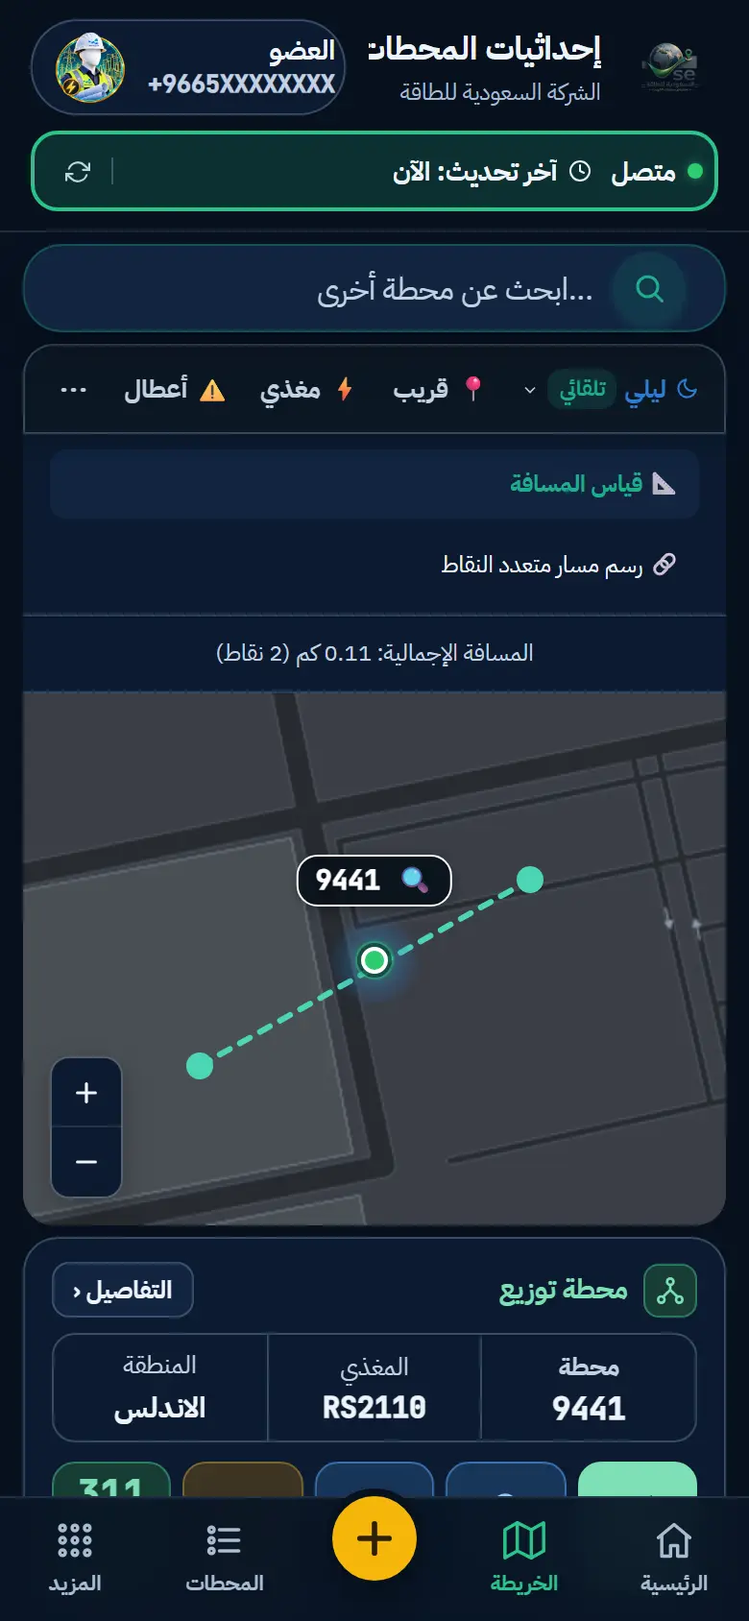
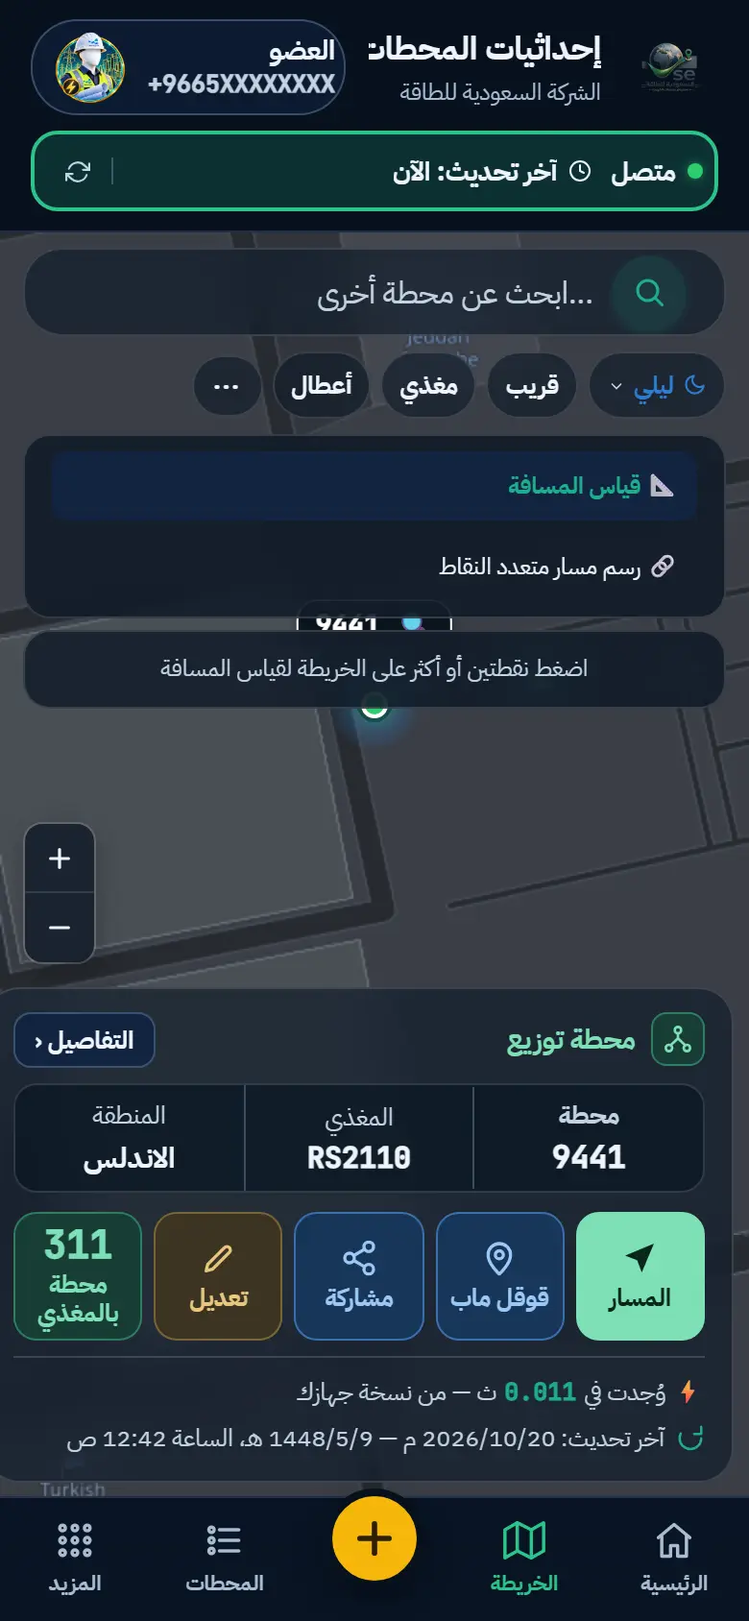
إعادة التصميم — الخريطة بكامل الصفحة: بحث وأدوات عائمة وبطاقة زجاجية، والمحطة في منتصف المساحة المرئية
- الخريطة تملأ المساحة بين الرأس والشريط السفلي؛ البحث زجاجي شبه شفاف أعلاها، وأدواتها أزرار عائمة تحته
- بطاقة المحطة عائمة أسفلها بخلفية زجاجية وأزرار واضحة («المسار» مميز)، بحد 56٪ والباقي يتمرر داخلها
- التوسيط في المساحة المرئية بين ما يطفو أعلى الخريطة والبطاقة (map-view: setInsets/centerOn/fitPadding)،
  ويُطبَّق على المحطة والقريبة والمغذي ونقاط الأعطال؛ التكبير والتنبيه فوق البطاقة دائمًا
- الملاحة بكامل الشاشة كما هي، وبعد إنهائها يعود البحث والبطاقة
- إعادة التقاط شرائح الجولة

diff --git a/styles/home.css b/styles/home.css
@@ -256,3 +256,55 @@ body.guest-mode .app-views{display:none;}
 /* سطر رسائل البحث لا يحجز مساحة وهو فارغ (كان 22 نقطة فوق الخريطة)، ويظهر بنصه عند وجود رسالة
    The search message line takes no space while empty (it was 22px above the map), and shows when there is a message */
 .view-map .station-search-hint:empty{min-height:0;padding:0;}
+
+/* ===== الخريطة بكامل الصفحة (طلب محمد 20 أكتوبر) =====
+   الخريطة تملأ المساحة بين الرأس والشريط السفلي؛ فوقها حقل بحث زجاجي شبه شفاف وأدوات الخريطة كأزرار عائمة، وأسفلها بطاقة
+   المحطة بخلفية زجاجية شبه شفافة وأزرار واضحة. التوسيط في المساحة المرئية بينهما (pages/home.js layout + map-view insets).
+   أثناء الملاحة تبقى قواعد navigation.css كما هي (كلها هنا مقيّدة بـ body:not(.nav-full)).
+   The full-page map: the map fills the space between the header and the bottom bar; a translucent glass search and the map
+   tools float above it, the station card floats below on translucent glass. Navigation keeps its own rules. */
+:root{--glass-bg:rgba(13,24,38,0.62);--glass-strong:rgba(13,24,38,0.80);--glass-line:rgba(255,255,255,0.14);}
+[data-theme="light"]{--glass-bg:rgba(255,255,255,0.66);--glass-strong:rgba(255,255,255,0.84);--glass-line:rgba(20,40,60,0.16);}
+body.home-page[data-view="map"]{min-height:0;}
+body:not(.nav-full) .view-map.hero{position:fixed;top:var(--header-h, 120px);left:0;right:0;
+  bottom:calc(var(--tabbar-h) + env(safe-area-inset-bottom, 0px));padding:0;overflow:hidden;z-index:1;}
+/* البحث عائم أعلى الخريطة — the search floats at the top */
+body:not(.nav-full) .view-map .top-content-area{position:absolute;top:8px;left:12px;right:12px;width:auto;max-width:none;margin:0;z-index:20;}
+body:not(.nav-full) .view-map .station-search-bar{background:var(--glass-bg);border-color:var(--glass-line);box-shadow:none;
+  -webkit-backdrop-filter:blur(14px) saturate(1.2);backdrop-filter:blur(14px) saturate(1.2);}
+body:not(.nav-full) .view-map .station-search-bar input{font-family:'JetBrains Mono','IBM Plex Sans Arabic',monospace;font-weight:700;color:var(--text-primary);}
+/* المسرح بكامل المساحة: الخريطة خلفية، والأدوات واللوحات تتراص تحت البحث فوقها — the stage fills the area: the map behind, tools stacked above it */
+body:not(.nav-full) .view-map .map-stage-slot{position:absolute;inset:0;margin:0;width:auto;padding:0;}
+body:not(.nav-full) .view-map .map-stage-slot .globe-stage.map-active{position:absolute;inset:0;width:100%;height:100%;min-height:0;margin:0;
+  padding:calc(var(--search-h, 46px) + 16px) 12px 0;box-sizing:border-box;gap:6px;pointer-events:none;}
+body:not(.nav-full) .view-map .globe-stage.map-active > *{pointer-events:auto;}
+body:not(.nav-full) .view-map .globe-stage.map-active #map-container{position:absolute;inset:0;height:100% !important;border-radius:0;z-index:0;}
+body:not(.nav-full) .view-map .map-toolbar-bar,body:not(.nav-full) .view-map .map-mode-panel,body:not(.nav-full) .view-map .map-panels > *,
+body:not(.nav-full) .view-map .map-tool-hint{position:relative;z-index:10;}
+/* أدوات الخريطة أزرار زجاجية منفصلة — the map tools as separate glass pills */
+body:not(.nav-full) .view-map .map-toolbar-bar{background:none;border:none;border-radius:0;box-shadow:none;-webkit-backdrop-filter:none;backdrop-filter:none;overflow:visible;}
+body:not(.nav-full) .view-map .toolbar-scroll{height:auto;padding:0 0 2px;gap:6px;justify-content:flex-start;}
+body:not(.nav-full) .view-map .toolbar-btn,body:not(.nav-full) .view-map .map-mode-chip{padding:8px 11px;border-radius:999px;font-size:13px;
+  background:var(--glass-bg);border:1px solid var(--glass-line);color:var(--text-primary);-webkit-backdrop-filter:blur(12px);backdrop-filter:blur(12px);}
+body:not(.nav-full) .view-map .toolbar-btn.active{background:var(--teal);border-color:var(--teal);color:#04241c;}
+body:not(.nav-full) .view-map [data-tools="more"]{padding:8px 11px;}
+/* لوحات الأدوات والتلميح بطاقات زجاجية تحت الأزرار — the tool panels and the hint as glass cards under the pills */
+body:not(.nav-full) .view-map .map-mode-panel,body:not(.nav-full) .view-map .map-panels > *,body:not(.nav-full) .view-map .map-tool-hint{
+  border:1px solid var(--glass-line);border-radius:14px;background:var(--glass-strong);-webkit-backdrop-filter:blur(14px);backdrop-filter:blur(14px);}
+/* التكبير والتنبيه فوق البطاقة دائمًا — zoom and the toast always above the card */
+body:not(.nav-full) .view-map .zoom-controls{bottom:calc(var(--sheet-h, 0px) + 12px);left:12px;border-color:var(--glass-line);}
+body:not(.nav-full) .view-map .zoom-btn{background:var(--glass-strong);-webkit-backdrop-filter:blur(12px);backdrop-filter:blur(12px);}
+body:not(.nav-full) .view-map .map-toast{bottom:calc(var(--sheet-h, 0px) + 16px);}
+/* بطاقة المحطة عائمة أسفل الخريطة بخلفية زجاجية — the station card floats at the bottom on glass */
+body:not(.nav-full) .view-map .station-sheet{position:absolute;left:8px;right:8px;bottom:8px;margin:0;z-index:20;max-height:56%;overflow-y:auto;overscroll-behavior:contain;
+  background:var(--glass-bg);border:1px solid var(--glass-line);-webkit-backdrop-filter:blur(16px) saturate(1.25);backdrop-filter:blur(16px) saturate(1.25);}
+body:not(.nav-full) .view-map .station-sheet .sheet-meta{background:var(--glass-strong);border-color:var(--glass-line);}
+body:not(.nav-full) .view-map .station-sheet .sheet-foot{border-top-color:var(--glass-line);}
+/* الأدوات الخمس في سطر واحد بلا قص على 390 (الأنماط، قريب، مغذي، أعطال، ⋯) — all five tools on one line at 390 */
+body:not(.nav-full) .view-map .toolbar-scroll{gap:5px;}
+body:not(.nav-full) .view-map .toolbar-btn,body:not(.nav-full) .view-map .map-mode-chip{padding:7px 9px;gap:4px;font-size:12.5px;}
+body:not(.nav-full) .view-map [data-tools="more"]{padding:7px 10px;}
+@media (max-width:440px){ body:not(.nav-full) .view-map .map-mode-chip .mm-auto-badge{display:none;} body:not(.nav-full) .view-map .toolbar-btn .tb-icon{display:none;} }
+/* «⋯» أيقونة فقط (لا يلتبس بتبويب «المزيد» في الشريط السفلي) — «⋯» icon only (not confused with the bottom bar's «More») */
+body:not(.nav-full) .view-map .toolbar-btn[data-tools="more"] .tb-label{display:none;}
+body:not(.nav-full) .view-map .toolbar-btn[data-tools="more"] .tb-icon{display:inline;font-size:16px;}

diff --git a/components/map-view.js b/components/map-view.js
@@ -25,6 +25,7 @@
   if (!CONFIG || !H) throw new Error('map-view.js يحتاج الإعدادات وhtml.js قبله / needs config and html.js first');
   const TILES = CONFIG.MAP_TILES, KEY = CONFIG.STORAGE_KEYS.MAP_MODE;
   const CENTER = [21.54, 39.19], START_ZOOM = 12, STATION_ZOOM = 18;
+  const INSET_GAP = 12; // هامش المساحة المرئية تحت ما يطفو فوق الخريطة / the visible area's margin under what floats over the map
   const AUTO_REFRESH_MS = 5 * 60 * 1000, TILE_ERRORS = 4, TILE_WINDOW_MS = 15000, FALLBACK_MS = 60000, TOAST_MS = 2000;
   const MODES = ['auto', 'light', 'dark', 'satellite'];
   const META = {
@@ -158,6 +159,38 @@
     }
     function closePanel_() { togglePanel_(false); }
 
+    // ===== المساحة المرئية (طلب محمد 20 أكتوبر): الخريطة بكامل الصفحة وفوقها البحث وتحتها البطاقة؛ التوسيط يكون في المساحة
+    // الظاهرة بينهما لا في منتصف الشاشة هندسيًا، حتى لا تظهر المحطة خلف البطاقة. الصفحة تمرّر ما يغطي الخريطة من أعلى وأسفل.
+    // The visible area (Mohammed, 20 Oct): the map fills the page with the search above and the card below; centering is
+    // inside the visible space between them, not the geometric middle, so the station never sits behind the card.
+    let insets = { top: 0, bottom: 0 };
+    function setInsets(top, bottom) { insets = { top: Math.max(0, Math.round(top || 0)), bottom: Math.max(0, Math.round(bottom || 0)) }; }
+    /* ما يطفو فوق الخريطة من أدواتها (الأزرار، قائمة الأنماط، اللوحات، التلميح) يُقاس لحظة التوسيط؛ وحين تكون فوقها لا فوق
+     * الخريطة (الملاحة، صفحات أخرى) لا يتقاطع معها فيكون صفرًا.
+     * The map's own floating tools (pills, mode menu, panels, hint) are measured at centering time; when they sit above the
+     * map instead of over it (navigation, other pages) they don't overlap it, so this is zero. */
+    function overlayTop_() {
+      const mc = map.getContainer().getBoundingClientRect(); let b = 0;
+      stage.querySelectorAll('.map-toolbar-bar, .map-mode-panel, .map-panels > *, .map-tool-hint').forEach(function (el) {
+        if (!el.offsetHeight) return;
+        const r = el.getBoundingClientRect();
+        if (r.bottom > mc.top && r.top < mc.bottom) b = Math.max(b, r.bottom - mc.top + INSET_GAP);
+      });
+      return b;
+    }
+    function current_() { return { top: Math.max(insets.top, overlayTop_()), bottom: insets.bottom }; }
+    /* مركز الخريطة الذي يضع النقطة في منتصف المساحة المرئية — the map center that puts the point mid visible area */
+    function visibleCenter_(latlng, zoom) {
+      const i = current_(), dy = (i.bottom - i.top) / 2;
+      return dy ? map.unproject(map.project(latlng, zoom).add([0, dy]), zoom) : L.latLng(latlng);
+    }
+    function centerOn(latlng, zoom, fly) {
+      const z = zoom == null ? map.getZoom() : zoom, c = visibleCenter_(latlng, z);
+      if (fly) map.flyTo(c, z, { duration: 1.4 }); else map.setView(c, z);
+    }
+    /* حشوة fitBounds بما يغطي الخريطة — fitBounds padding including what covers the map */
+    function fitPadding(pad) { const p = pad || 0, i = current_(); return { paddingTopLeft: [p, p + i.top], paddingBottomRight: [p, p + i.bottom] }; }
+
     // ===== المحطة — The station =====
     function showStation(s) {
       map.invalidateSize();
@@ -166,7 +199,7 @@
       const lat = Number(s && s.lat), lng = Number(s && s.lng);
       if (!isFinite(lat) || !isFinite(lng) || (lat === 0 && lng === 0) || Math.abs(lat) > 90 || Math.abs(lng) > 180) return null; // بلا إحداثيات: لا علامة / no coordinates: no marker
       marker = L.marker([lat, lng], { icon: stationIcon(s.id) }).addTo(map);
-      map.flyTo([lat, lng], STATION_ZOOM, { duration: 1.4 });
+      centerOn([lat, lng], STATION_ZOOM, true);
       return marker;
     }
     function clearStation() { if (marker) { map.removeLayer(marker); marker = null; } }
@@ -211,7 +244,8 @@
       map: map, tools: q('tools'), panels: q('panels'),
       mode: function () { return mode; }, resolvedMode: resolved, setMode: setMode, refresh: apply,
       usingOffline: function () { return offlineFlavor !== null; },
-      showStation: showStation, clearStation: clearStation, hint: hint, hideHint: hideHint, toast: toast,
+      showStation: showStation, clearStation: clearStation, setInsets: setInsets, centerOn: centerOn, fitPadding: fitPadding,
+      insets: current_, hint: hint, hideHint: hideHint, toast: toast,
       destroy: function () {
         global.clearInterval(autoTimer); global.clearTimeout(toastTimer); global.clearTimeout(fallbackTimer);
         stage.removeEventListener('click', onClick_); stage.removeEventListener('keydown', onKey_);

diff --git a/config/جولة_تعريفية.js b/config/جولة_تعريفية.js
@@ -34,13 +34,13 @@
       { img: 'assets/tour/06-state-offline.webp', rect: { x: 0, y: 68, w: 390, h: 52 },
         title: '🔴 أحمر: لا يوجد اتصال بالإنترنت',
         text: 'إذا انقطع الإنترنت يتحول الشريط إلى الأحمر ويذكر آخر وقت حُدّثت فيه نسختك — والبحث والخريطة والملاحة تعمل منها.\nوإن لم تكن على الجهاز نسخة يقول ذلك صراحة: «لا توجد نسخة ولا يوجد إنترنت».' },
-      { img: 'assets/tour/07-search-server.webp', rect: { x: 27, y: 726, w: 336, h: 28 },
+      { img: 'assets/tour/07-search-server.webp', rect: { x: 7, y: 731, w: 360, h: 28 },
         title: '⏱ البحث قبل تحميل النسخة',
         text: 'قبل اكتمال النسخة يذهب البحث إلى الخادم وينتظر رده — وتظهر المدة الفعلية ومصدرها أسفل بطاقة المحطة.\nوبدون إنترنت لا يمكن البحث قبل تحميل النسخة.' },
-      { img: 'assets/tour/08-search-local.webp', rect: { x: 27, y: 701, w: 336, h: 53 },
+      { img: 'assets/tour/08-search-local.webp', rect: { x: 7, y: 706, w: 360, h: 53 },
         title: '⚡ البحث بعد تحميل النسخة',
         text: 'بعد التحميل تظهر النتيجة من جهازك في جزء من الألف من الثانية — «من نسخة جهازك» — حتى بدون إنترنت.\nوالنسخة تتحدث تلقائيًا بتغييرات الزملاء.' },
-      { img: 'assets/tour/09-station-sheet.webp', rect: { x: 12, y: 509, w: 366, h: 258 }, point: { x: 27, y: 626, w: 62, h: 67 },
+      { img: 'assets/tour/09-station-sheet.webp', rect: { x: 0, y: 514, w: 382, h: 258 }, point: { x: 7, y: 631, w: 67, h: 67 },
         title: '📍 لوحة المحطة تحت الخريطة',
         text: 'الخريطة تأخذ الشاشة، وتحتها لوحة المحطة: الرقم والنوع والمغذي والمنطقة، وأزرار المسار وقوقل ماب والمشاركة والتعديل.\nوبطاقة «محطة بالمغذي» تعرض عدد محطات المغذي، وتُظهرها على الخريطة بالضغط عليها.' },
       { img: 'assets/tour/10-details.webp', rect: { x: 16, y: 279, w: 358, h: 52 },
@@ -52,10 +52,10 @@
       { img: 'assets/tour/12-outages-input.webp', rect: { x: 16, y: 455, w: 358, h: 285 }, point: { x: 261, y: 455, w: 113, h: 96 },
         title: '⚡ بحث الأعطال: أرقام عدة محطات',
         text: 'في الرئيسية اضغط بطاقة «الأعطال»، فتظهر تحتها خانة الأرقام.\nاكتب أرقام المحطات التي فيها العطل (حتى 15 محطة) وافصل بينها بمسافة أو فاصلة، ثم اضغط بحث.' },
-      { img: 'assets/tour/13-outages-map.webp', rect: { x: 29, y: 242, w: 178, h: 33 },
+      { img: 'assets/tour/13-outages-map.webp', rect: { x: 106, y: 262, w: 178, h: 33 },
         title: '🗺 نتيجة بحث الأعطال على الخريطة',
         text: 'تظهر المحطات بالأحرف A ثم B ثم C بترتيب كتابتك، مع خط يربطها.\nوزر «الانتقال بالترتيب على قوقل ماب» يفتح مسارًا جاهزًا يمر بها كلها.' },
-      { img: 'assets/tour/14-ruler.webp', rect: { x: 12, y: 226, w: 366, h: 95 },
+      { img: 'assets/tour/14-ruler.webp', rect: { x: 12, y: 226, w: 366, h: 96 },
         title: '📐 قياس المسافة على الخريطة',
         text: 'من شريط أدوات الخريطة اضغط «⋯» ثم «📐 قياس المسافة».\nثم اضغط على نقطتين أو أكثر في الخريطة، فيظهر طول كل جزء والمسافة الإجمالية.' },
       { img: 'assets/tour/15-nav-online.webp', rect: { x: 0, y: 708, w: 390, h: 136 },

diff --git a/pages/home.js b/pages/home.js
@@ -23,7 +23,7 @@
   const doc = global.document, S = global.SecSession, SYNC = global.SecStationsSync;
   const $ = function (id) { return doc.getElementById(id); };
   const MORPH_SETTLE_MS = 200, OUTAGE_AFTER_MS = 650;
-  const MAP_MIN_H = 200; // أصغر ارتفاع للخريطة على الشاشات القصيرة / the map's smallest height on short screens
+  const MAP_GAP = 12; // هامش المساحة المرئية تحت ما يعلو الخريطة وفوق البطاقة / the visible area's margin under the top items and above the card
   const SYNC_NOTE_MS = 6000; // مدة رسالة «تم تحديث بيانات المحطات» / how long the «stations updated» note stays
   const loggedIn = function () { return S.isLoggedIn(); };
 
@@ -94,10 +94,6 @@
     }
     global.scrollTo(0, 0);
   }
-  function bottomNavHeight_() {
-    const el = $('bottomNav');
-    return el && global.getComputedStyle(el).display !== 'none' ? el.getBoundingClientRect().height : 0;
-  }
 
   // ===== خريطة جدة بدون إنترنت — The offline Jeddah map =====
   let view = null;
@@ -128,12 +124,17 @@
   }
   function layout() {
     if (!view || !$('heroSection').classList.contains('map-active') || doc.body.classList.contains('nav-full')) return;
-    const box = $('mapStage').querySelector('#map-container');
-    const top = box.getBoundingClientRect().top + global.scrollY;
-    // الخريطة تأخذ باقي الشاشة فوق لوحة المحطة والشريط السفلي، فتظهر كل الأزرار بلا تمرير (ملاحظة محمد، المرحلة ج)
-    // The map takes the rest of the screen above the station sheet and the bottom bar, so every button shows unscrolled
-    const sheet = $('stationTable').classList.contains('show') ? $('stationTable').offsetHeight + 8 : 0;
-    box.style.height = Math.max(MAP_MIN_H, global.innerHeight - top - sheet - bottomNavHeight_() - 10) + 'px';
+    // الخريطة بكامل الصفحة (طلب محمد 20 أكتوبر): البحث والأدوات عائمة فوقها والبطاقة عائمة أسفلها. يُقاس ما يغطي الخريطة
+    // من أعلى (آخر عنصر عائم في الأعلى) ومن أسفل (البطاقة)، فيتوسط كل شيء في المساحة المرئية وتصعد أزرار التكبير فوق البطاقة.
+    // The full-page map: the search and tools float above it, the card below. What covers it from the top (the last floating
+    // element up there) and the bottom (the card) is measured, so centering uses the visible area and zoom sits above the card.
+    const hero = $('heroSection'), hr = hero.getBoundingClientRect(), stage = $('mapStage');
+    stage.querySelector('#map-container').style.height = '';
+    const sheetEl = $('stationTable'), sheet = sheetEl.classList.contains('show') ? Math.max(0, hr.bottom - sheetEl.getBoundingClientRect().top) : 0;
+    hero.style.setProperty('--search-h', Math.round($('topContentArea').offsetHeight) + 'px');
+    hero.style.setProperty('--sheet-h', Math.round(sheet) + 'px');
+    // أدوات الخريطة العائمة تقيسها الخريطة بنفسها لحظة التوسيط — the map measures its own floating tools when centering
+    view.setInsets($('topContentArea').getBoundingClientRect().bottom - hr.top + MAP_GAP, sheet ? sheet + MAP_GAP : 0);
     global.requestAnimationFrame(function () { view.map.invalidateSize(); });
   }
   function ensureMap_() {
@@ -202,6 +203,7 @@
     if (!view) { showCard_(s); return; } // بلا خريطة: البطاقة وحدها مع الرسالة / no map: the card alone with the message
     tools.stop(); outageMap.clear(); nearby.reset(); view.hideHint();
     showCard_(s);
+    layout();
     view.showStation(s);
     global.setTimeout(layout, 50);
   }

diff --git a/components/outage-search.js b/components/outage-search.js
@@ -142,7 +142,6 @@
       });
       if (!bounds.length) return;
       if (bounds.length > 1) line = L.polyline(bounds, { color: LINE_COLOR, weight: 2, dashArray: '5,5' }).addTo(map);
-      map.fitBounds(bounds.length > 1 ? bounds : [bounds[0], bounds[0]], { padding: [44, 44], maxZoom: 17 });
       const note = notFound && notFound.length ? ' — تعذّر إيجاد: ' + notFound.join('، ') : '';
       const order = found.length > 1 ? 'بالترتيب A→' + letter(found.length - 1) : '';
       view.hint('محطات العطل (' + found.length + ') ' + order + note + ' ');
@@ -150,6 +149,8 @@
       const a = global.document.createElement('a');
       a.className = 'outage-gmaps-link'; a.target = '_blank'; a.rel = 'noopener'; a.href = googleUrl(found); a.textContent = 'الانتقال بالترتيب على قوقل ماب';
       hint.appendChild(a);
+      // بعد ظهور التلميح: النقاط داخل المساحة المرئية تحته وفوق البطاقة — after the hint shows: the points in the visible area below it
+      map.fitBounds(bounds.length > 1 ? bounds : [bounds[0], bounds[0]], Object.assign(view.fitPadding ? view.fitPadding(44) : { padding: [44, 44] }, { maxZoom: 17 }));
     }
 
     async function search(raw) {

diff --git a/components/nearby-layer.js b/components/nearby-layer.js
@@ -112,7 +112,7 @@
       const hasCenter = Q.hasCoordinates(st);
       data = (res.stations || []).filter(function (s) { return Q.hasCoordinates(s) && !(String(s.id) === String(st.id) && s.type === st.type); })
         .map(function (s) { const d = typeof s.distanceKm === 'number' ? s.distanceKm : (hasCenter ? Q.distanceKm(center, { lat: Number(s.lat), lng: Number(s.lng) }) : 0); return Object.assign({}, s, { lat: Number(s.lat), lng: Number(s.lng), _dist: d }); });
-      if (data.length && hasCenter) map.setView([center.lat, center.lng], 17);
+      if (data.length && hasCenter) { if (view.centerOn) view.centerOn([center.lat, center.lng], 17); else map.setView([center.lat, center.lng], 17); } // في المساحة المرئية / in the visible area
       render();
       if (!toasted[m]) { view.toast(m === 'nearby' ? 'تم عرض ' + data.length + ' محطة قريبة' : 'تم عرض ' + data.length + ' محطة بالمغذي'); toasted[m] = true; }
     }
